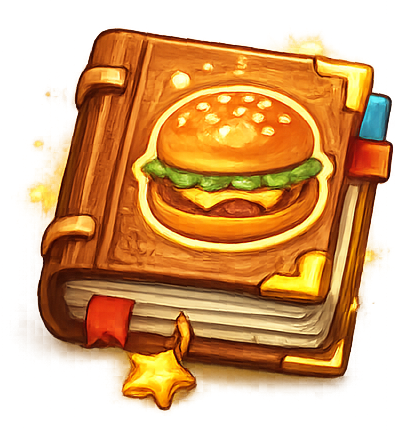
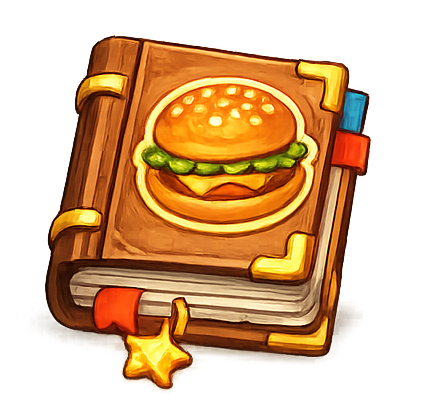
cambio de iconos

diff --git a/CasualGameMobile/src/components/MenuScreen.tsx b/CasualGameMobile/src/components/MenuScreen.tsx
@@ -145,7 +145,7 @@ const MenuScreen: React.FC<MenuScreenProps> = ({
               disabled={energy >= maxEnergy || !onWatchAdForEnergy}
               activeOpacity={energy < maxEnergy && onWatchAdForEnergy ? 0.7 : 1}
             >
-              <Text style={styles.statEmoji}>⚡</Text>
+              <Image source={require('../assets/Iconos/Lighting.png')} style={styles.statIcon} resizeMethod="resize" />
               <Text style={styles.statValue}>{energy}/{maxEnergy}</Text>
               {energy < maxEnergy && (
                 <View style={styles.timeBadge}>
@@ -171,7 +171,7 @@ const MenuScreen: React.FC<MenuScreenProps> = ({
             )}
             {destructionPackCount > 0 && (
               <View style={[styles.statPill, { marginLeft: 3 }]}>
-                <Text style={styles.statEmoji}>💥</Text>
+                <Image source={require('../assets/Iconos/rubber.png')} style={styles.statIcon} resizeMethod="resize" />
                 <Text style={styles.statValue}>{destructionPackCount}</Text>
               </View>
             )}
@@ -184,7 +184,7 @@ const MenuScreen: React.FC<MenuScreenProps> = ({
           </View>
           <View style={styles.rightButtons}>
             <TouchableOpacity style={styles.shopBtn} onPress={() => { onPlaySound?.(); onShop(); }}>
-              <Image source={require('../assets/Iconos/shop.png')} style={styles.buttonIcon} resizeMethod="resize" />
+              <Image source={require('../assets/Iconos/power.png')} style={styles.buttonIcon} resizeMethod="resize" />
             </TouchableOpacity>
             <TouchableOpacity style={styles.settingsBtn} onPress={() => { onPlaySound?.(); onOptions(); }}>
               <Image source={require('../assets/Iconos/settings.png')} style={styles.buttonIcon} resizeMethod="resize" />
@@ -255,8 +255,7 @@ const MenuScreen: React.FC<MenuScreenProps> = ({
                 <View style={styles.arcadeButton}>
                   <Image source={require('../assets/Iconos/arcade.png')} style={styles.arcadeIcon} resizeMode="contain" />
                   <View style={styles.costBadge}>
-                    <Text style={styles.costBadgeText}>1</Text>
-                    <Text style={styles.costEnergyIcon}>⚡</Text>
+                    <Image source={require('../assets/Iconos/Lighting.png')} style={styles.costEnergyIconImage} resizeMethod="resize" />
                   </View>
                 </View>
               </Animated.View>
@@ -290,8 +289,7 @@ const MenuScreen: React.FC<MenuScreenProps> = ({
                 <View style={styles.playLevelButton}>
                   <Image source={require('../assets/Iconos/play.png')} style={styles.playLevelIcon} resizeMode="contain" />
                   <View style={styles.costBadge}>
-                    <Text style={styles.costBadgeText}>1</Text>
-                    <Text style={styles.costEnergyIcon}>⚡</Text>
+                    <Image source={require('../assets/Iconos/Lighting.png')} style={styles.costEnergyIconImage} resizeMethod="resize" />
                   </View>
                 </View>
               </Animated.View>
@@ -320,7 +318,7 @@ const MenuScreen: React.FC<MenuScreenProps> = ({
               </View>
               <Animated.View style={[{ transform: [{ scale: recipesButtonScale }] }]}>
                 <View style={styles.playLevelButton}>
-                  <Text style={{ fontSize: 24 }}>📖</Text>
+                  <Image source={require('../assets/Iconos/book.png')} style={styles.playLevelIcon} resizeMode="contain" />
                 </View>
               </Animated.View>
             </View>

diff --git a/CasualGameMobile/src/components/ShopScreen.tsx b/CasualGameMobile/src/components/ShopScreen.tsx
@@ -59,7 +59,7 @@ const ShopScreen: React.FC<ShopScreenProps> = ({
         {/* Energy Refill */}
         <View style={styles.powerUpCard}>
           <View style={styles.powerUpHeader}>
-            <Text style={styles.powerUpEmoji}>⚡</Text>
+            <Image source={require('../assets/Iconos/Lighting.png')} style={styles.powerUpIcon} resizeMethod="resize" />
             <View style={styles.powerUpInfo}>
               <Text style={styles.powerUpName}>{t.shop_energy_name}</Text>
               <Text style={styles.powerUpDesc}>{t.shop_energy_desc}</Text>
@@ -67,7 +67,8 @@ const ShopScreen: React.FC<ShopScreenProps> = ({
           </View>
           <View style={styles.powerUpFooter}>
             <View style={styles.countBadge}>
-              <Text style={styles.countText}>⚡ {energy}/{maxEnergy}</Text>
+              <Image source={require('../assets/Iconos/Lighting.png')} style={styles.countIcon} resizeMethod="resize" />
+              <Text style={styles.countText}>{energy}/{maxEnergy}</Text>
             </View>
             <TouchableOpacity
               style={[
@@ -88,8 +89,8 @@ const ShopScreen: React.FC<ShopScreenProps> = ({
         {/* Time Boost */}
         <View style={styles.powerUpCard}>
           <View style={styles.powerUpHeader}>
-            <Text style={styles.powerUpEmoji}>⏱</Text>
-            <View style={styles.powerUpInfo}>
+          <Image source={require('../assets/Iconos/time.png')} style={styles.powerUpIcon} resizeMethod="resize" />
+          <View style={styles.powerUpInfo}>
               <Text style={styles.powerUpName}>{t.powerup_time_name}</Text>
               <Text style={styles.powerUpDesc}>{t.powerup_time_desc}</Text>
             </View>
@@ -114,7 +115,7 @@ const ShopScreen: React.FC<ShopScreenProps> = ({
         {/* Super Time Boost */}
         <View style={styles.powerUpCard}>
           <View style={styles.powerUpHeader}>
-            <Text style={styles.powerUpEmoji}>⏳</Text>
+          <Image source={require('../assets/Iconos/time.png')} style={styles.powerUpIcon} resizeMethod="resize" />
             <View style={styles.powerUpInfo}>
               <Text style={styles.powerUpName}>{t.powerup_super_time_name}</Text>
               <Text style={styles.powerUpDesc}>{t.powerup_super_time_desc}</Text>
@@ -140,7 +141,7 @@ const ShopScreen: React.FC<ShopScreenProps> = ({
         {/* Destruction Pack */}
         <View style={styles.powerUpCard}>
           <View style={styles.powerUpHeader}>
-            <Text style={styles.powerUpEmoji}>💥</Text>
+            <Image source={require('../assets/Iconos/rubber.png')} style={styles.powerUpIcon} resizeMethod="resize" />
             <View style={styles.powerUpInfo}>
               <Text style={styles.powerUpName}>{t.powerup_destruction_name}</Text>
               <Text style={styles.powerUpDesc}>{t.powerup_destruction_desc}</Text>
@@ -166,8 +167,8 @@ const ShopScreen: React.FC<ShopScreenProps> = ({
         {/* Super Destruction Pack */}
         <View style={styles.powerUpCard}>
           <View style={styles.powerUpHeader}>
-            <Text style={styles.powerUpEmoji}>🔥</Text>
-            <View style={styles.powerUpInfo}>
+          <Image source={require('../assets/Iconos/rubber.png')} style={styles.powerUpIcon} resizeMethod="resize" />
+          <View style={styles.powerUpInfo}>
               <Text style={styles.powerUpName}>{t.powerup_super_destruction_name}</Text>
               <Text style={styles.powerUpDesc}>{t.powerup_super_destruction_desc}</Text>
             </View>

diff --git a/CasualGameMobile/src/styles/MenuScreen.styles.ts b/CasualGameMobile/src/styles/MenuScreen.styles.ts
@@ -173,7 +173,7 @@ export const styles = StyleSheet.create({
     borderWidth: 2,
     borderColor: 'white'
   },
-  arcadeIcon: { width: 28, height: 28 },
+  arcadeIcon: { width: 42, height: 42 },
   arcadeButtonText: { color: 'white', fontWeight: '900', fontSize: 14 },
   arcadeDescription: { 
     color: 'rgba(255, 255, 255, 0.9)', 
@@ -229,27 +229,27 @@ export const styles = StyleSheet.create({
     borderColor: 'white'
   },
   playLevelIcon: {
-    width: 24,
-    height: 24,
+    width: 36,
+    height: 36,
     marginLeft: 4 // Ajuste visual para centrar el triángulo del play
   },
   costBadge: {
     position: 'absolute',
-    top: -8,
-    right: -8,
-    backgroundColor: '#ff6b6b',
-    paddingHorizontal: 6,
+    top: -12,
+    right: -12,
+    backgroundColor: '#aa1b1b',
+    paddingHorizontal: 2,
     paddingVertical: 2,
-    borderRadius: 10,
+    borderRadius: 15,
     borderWidth: 2,
     borderColor: 'white',
     flexDirection: 'row',
     alignItems: 'center',
-    elevation: 4,
+    elevation: 5,
     shadowColor: '#000',
-    shadowOffset: { width: 0, height: 2 },
-    shadowOpacity: 0.2,
-    shadowRadius: 2,
+    shadowOffset: { width: 2, height: 2 },
+    shadowOpacity: 0.5,
+    shadowRadius: 3,
   },
   costBadgeText: {
     color: 'white',
@@ -264,6 +264,11 @@ export const styles = StyleSheet.create({
     textShadowColor: 'rgba(0,0,0,0.5)',
     textShadowOffset: { width: 1, height: 1 },
     textShadowRadius: 1,
+  },
+  costEnergyIconImage: {
+    width: 18,
+    height: 18,
+    margin: 0,
   },
   recordContainer: { alignItems: 'flex-end' },
   recordLabel: { fontSize: 10, fontWeight: '800', color: 'rgba(255,255,255,0.7)' },

diff --git a/CasualGameMobile/src/constants/gameData.ts b/CasualGameMobile/src/constants/gameData.ts
@@ -315,7 +315,7 @@ export const TRANSLATIONS = {
     exit_title: "¿Salir de la partida?",
     exit_msg: "Perderás el progreso de este nivel.",
     exit_confirm: "Salir",
-    shop_title: "TIENDA",
+    shop_title: "TIENDA DE PODERES",
     owned: "Tienes",
     powerup_time_name: "Tiempo Extra",
     powerup_time_desc: "Empieza con 10 segundos adicionales",
@@ -495,7 +495,7 @@ export const TRANSLATIONS = {
     exit_title: "Exit game?",
     exit_msg: "You will lose your current progress.",
     exit_confirm: "Exit",
-    shop_title: "SHOP",
+    shop_title: "POWER UP SHOP",
     owned: "Owned",
     powerup_time_name: "Time Boost",
     powerup_time_desc: "Start with 10 extra seconds",

diff --git a/CasualGameMobile/src/components/StatCard.tsx b/CasualGameMobile/src/components/StatCard.tsx
@@ -103,7 +103,7 @@ const StatCard: React.FC<StatCardProps> = ({ label, value, type, isLowTime, isVe
       case 'time': return require('../assets/Iconos/time.png');
       case 'money': return require('../assets/Iconos/coin.png');
       case 'record': return require('../assets/Iconos/arcade.png');
-      case 'destruction': return '💥'; // Emoji de explosión como en la tienda
+      case 'destruction': return require('../assets/Iconos/rubber.png');
       case 'burgers': return require('../assets/Iconos/burger.png');
       default: return null;
     }

diff --git a/CasualGameMobile/src/components/IntroScreen.tsx b/CasualGameMobile/src/components/IntroScreen.tsx
@@ -177,7 +177,7 @@ const IntroScreen: React.FC<IntroScreenProps> = ({
             )}
             {destructionPackCount > 0 && (
               <View style={styles.powerUpToggle}>
-                <Text style={styles.powerUpEmoji}>💥</Text>
+                <Image source={require('../assets/Iconos/rubber.png')} style={styles.powerUpIcon} resizeMethod="resize" />
                 <Text style={styles.powerUpLabel}>{t.powerup_destruction_name}</Text>
                 <Switch
                   value={useDestructionPack}

diff --git a/CasualGameMobile/src/styles/ShopScreen.styles.ts b/CasualGameMobile/src/styles/ShopScreen.styles.ts
@@ -87,6 +87,11 @@ export const styles = StyleSheet.create({
     fontSize: 30,
     marginRight: 12,
   },
+  powerUpIcon: {
+    width: 30,
+    height: 30,
+    marginRight: 12,
+  },
   powerUpInfo: {
     flex: 1,
   },
@@ -119,6 +124,11 @@ export const styles = StyleSheet.create({
     fontSize: 11,
     fontWeight: '800',
     color: '#1864ab',
+  },
+  countIcon: {
+    width: 12,
+    height: 12,
+    marginRight: 4,
   },
   buyButton: {
     backgroundColor: '#ff922b',

diff --git a/CasualGameMobile/src/styles/IntroScreen.styles.ts b/CasualGameMobile/src/styles/IntroScreen.styles.ts
@@ -215,6 +215,10 @@ export const styles = StyleSheet.create({
   powerUpEmoji: {
     fontSize: 20
   },
+  powerUpIcon: {
+    width: 20,
+    height: 20
+  },
   powerUpLabel: {
     fontSize: 13,
     fontWeight: '700',
